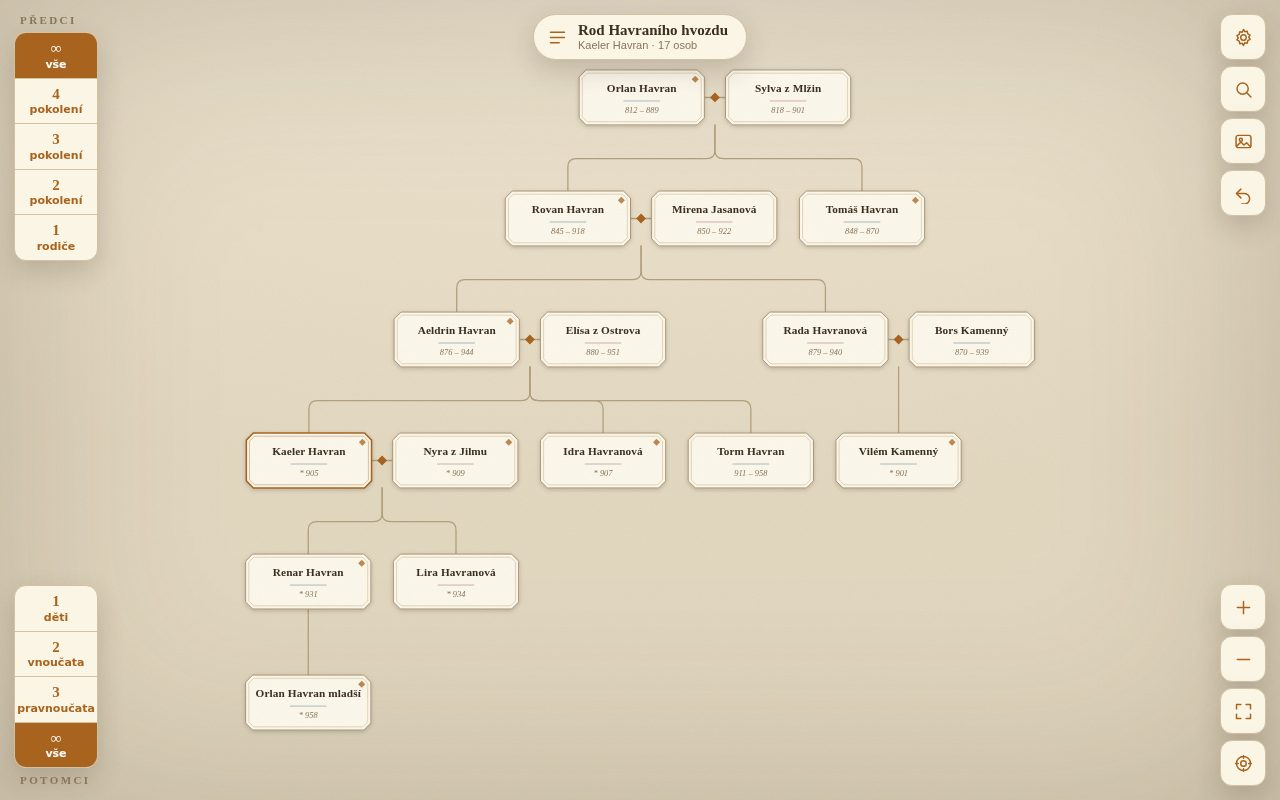
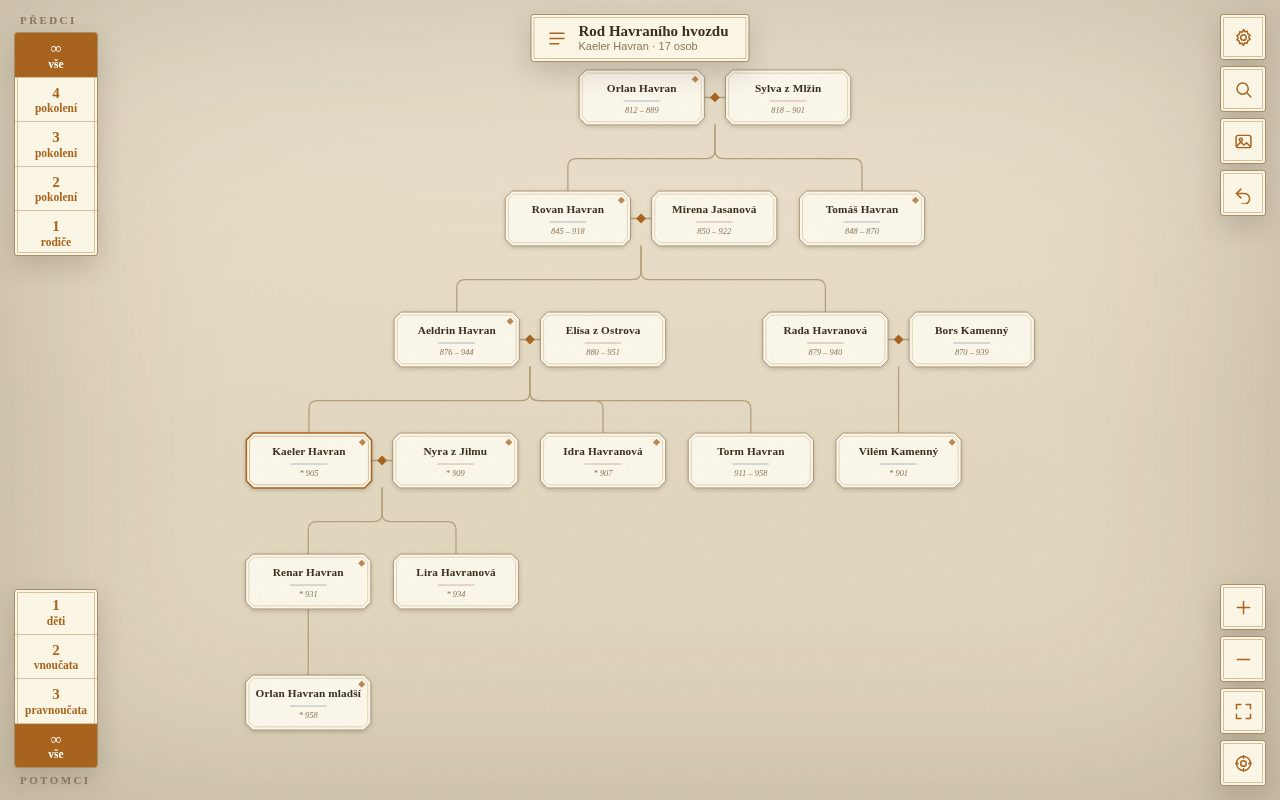
Rozhraní v duchu pergamenu a oprava kresby kruhové nabídky
- panely, tlačítka a dialogy mají dvojitý rámeček a patkové písmo
- ztmavení okolí nabídky řeší kruhová maska místo přechodu
- zakázaná tlačítka nabídky už nepoužívají průhlednost, která
  v prohlížeči zanechávala obdélníkové stopy

diff --git a/css/styles.css b/css/styles.css
@@ -53,7 +53,7 @@ body[data-theme="inkoust"] {
 html, body {
   margin: 0; padding: 0; height: 100%;
   overflow: hidden;
-  font-family: var(--sans);
+  font-family: var(--serif);
   color: var(--ink);
   background: var(--bg);
   -webkit-tap-highlight-color: transparent;
@@ -129,10 +129,11 @@ body[data-theme="inkoust"] #stage { box-shadow: inset 0 0 240px rgba(0, 0, 0, .6
   z-index: 5;
 }
 .chip-btn {
-  display: flex; align-items: center; gap: 10px;
-  background: var(--panel); border: 1px solid var(--line);
-  border-radius: 999px; padding: 7px 18px 7px 13px;
-  box-shadow: var(--shadow); cursor: pointer; color: var(--ink);
+  display: flex; align-items: center; gap: 11px;
+  background: var(--panel); border: 1px solid var(--ink-soft);
+  border-radius: 3px; padding: 8px 20px 8px 15px;
+  box-shadow: var(--shadow), inset 0 0 0 2px var(--panel), inset 0 0 0 3px var(--line);
+  cursor: pointer; color: var(--ink);
   max-width: min(74vw, 460px);
 }
 .chip-btn:hover { border-color: var(--accent); }
@@ -159,15 +160,16 @@ body[data-theme="inkoust"] #stage { box-shadow: inset 0 0 240px rgba(0, 0, 0, .6
 }
 .rail-group {
   display: flex; flex-direction: column;
-  background: var(--panel); border: 1px solid var(--line);
-  border-radius: 12px; overflow: hidden; box-shadow: var(--shadow);
+  background: var(--panel); border: 1px solid var(--ink-soft);
+  border-radius: 3px; overflow: hidden;
+  box-shadow: var(--shadow), inset 0 0 0 2px var(--panel), inset 0 0 0 3px var(--line);
 }
 .rail-btn {
+  font-family: var(--serif);
   display: flex; flex-direction: column; align-items: center; gap: 1px;
   width: 82px; padding: 7px 4px;
   background: transparent; border: 0; border-bottom: 1px solid var(--line);
-  color: var(--accent); font-size: 11px; font-weight: 600; cursor: pointer;
-  font-family: var(--sans);
+  color: var(--accent); font-size: 11.5px; font-weight: 600; cursor: pointer;
 }
 .rail-btn:last-child { border-bottom: 0; }
 .rail-btn:hover { background: var(--accent-soft); }
@@ -177,8 +179,9 @@ body[data-theme="inkoust"] #stage { box-shadow: inset 0 0 240px rgba(0, 0, 0, .6
 
 .tool {
   width: 46px; height: 46px; display: flex; align-items: center; justify-content: center;
-  background: var(--panel); border: 1px solid var(--line); border-radius: 12px;
-  color: var(--accent); cursor: pointer; box-shadow: var(--shadow);
+  background: var(--panel); border: 1px solid var(--ink-soft); border-radius: 3px;
+  color: var(--accent); cursor: pointer;
+  box-shadow: var(--shadow), inset 0 0 0 2px var(--panel), inset 0 0 0 3px var(--line);
 }
 .tool:hover { background: var(--accent-soft); border-color: var(--accent); }
 .tool:active { transform: translateY(1px); }
@@ -187,7 +190,7 @@ body[data-theme="inkoust"] #stage { box-shadow: inset 0 0 240px rgba(0, 0, 0, .6
 .hint {
   position: absolute; left: 50%; bottom: 18px; transform: translateX(-50%);
   background: var(--panel); border: 1px solid var(--line); color: var(--muted);
-  padding: 8px 16px; border-radius: 999px; font-size: 12.5px;
+  padding: 8px 18px; border-radius: 3px; font-size: 12.5px; font-style: italic;
   box-shadow: var(--shadow); pointer-events: none; opacity: 0;
   transition: opacity .3s ease; max-width: 80vw; text-align: center;
 }
@@ -197,6 +200,11 @@ body[data-theme="inkoust"] #stage { box-shadow: inset 0 0 240px rgba(0, 0, 0, .6
 
 .orbit { position: absolute; inset: 0; pointer-events: none; z-index: 8; }
 .orbit.on { pointer-events: auto; }
+.orbit-hole {
+  position: absolute; width: 220px; height: 220px; border-radius: 50%;
+  transform: translate(-50%, -50%); pointer-events: none;
+  box-shadow: 0 0 46px 9999px var(--dim);
+}
 .orbit-btn {
   position: absolute; transform: translate(-50%, -50%);
   width: 58px; height: 58px; border-radius: 50%;
@@ -209,13 +217,18 @@ body[data-theme="inkoust"] #stage { box-shadow: inset 0 0 240px rgba(0, 0, 0, .6
 .orbit-btn:hover { background: var(--accent); color: #fff; }
 .orbit-btn.danger { border-color: var(--danger); color: var(--danger); }
 .orbit-btn.danger:hover { background: var(--danger); color: #fff; }
-.orbit-btn.off { opacity: .35; cursor: default; border-color: var(--line); color: var(--muted); }
-.orbit-btn.off:hover { background: var(--panel); color: var(--muted); }
+.orbit-btn.off {
+  cursor: default; border-color: var(--line); color: var(--muted);
+  background: var(--panel-2); box-shadow: none;
+}
+.orbit-btn.off:hover { background: var(--panel-2); color: var(--muted); }
+.orbit-btn.off .orbit-label { color: var(--muted); border-color: var(--line); }
 .orbit-ico { display: flex; }
 .orbit-label {
-  position: absolute; top: 60px; font-size: 10.5px; font-weight: 700;
+  position: absolute; top: 60px; font-size: 11px; font-weight: 600;
   color: var(--ink); background: var(--panel); border: 1px solid var(--line);
-  padding: 2px 7px; border-radius: 999px; white-space: nowrap;
+  padding: 2px 8px; border-radius: 3px; white-space: nowrap;
+  letter-spacing: .02em;
 }
 .orbit-btn:hover .orbit-label { border-color: var(--accent); color: var(--accent); }
 @keyframes pop { from { opacity: 0; transform: translate(-50%, -50%) scale(.5); } }
@@ -231,8 +244,9 @@ body[data-theme="inkoust"] #stage { box-shadow: inset 0 0 240px rgba(0, 0, 0, .6
 }
 .modal-back.in { opacity: 1; }
 .modal {
-  background: var(--panel); border: 1px solid var(--line); border-radius: 18px;
-  box-shadow: var(--shadow); width: min(460px, 100%);
+  background: var(--panel); border: 1px solid var(--ink-soft); border-radius: 4px;
+  box-shadow: var(--shadow), inset 0 0 0 3px var(--panel), inset 0 0 0 4px var(--line);
+  width: min(460px, 100%);
   max-height: min(88vh, 900px); display: flex; flex-direction: column;
   transform: translateY(8px); transition: transform .18s ease;
 }
@@ -242,7 +256,10 @@ body[data-theme="inkoust"] #stage { box-shadow: inset 0 0 240px rgba(0, 0, 0, .6
   display: flex; align-items: center; justify-content: space-between;
   padding: 16px 16px 10px 22px; border-bottom: 1px solid var(--line);
 }
-.modal-head h2 { margin: 0; font-family: var(--serif); font-size: 19px; font-weight: 600; }
+.modal-head h2 {
+  margin: 0; font-family: var(--serif); font-size: 19px; font-weight: 600;
+  letter-spacing: .04em;
+}
 .modal-body { padding: 16px 22px; overflow: auto; }
 .modal-foot {
   display: flex; justify-content: flex-end; gap: 8px;
@@ -250,9 +267,9 @@ body[data-theme="inkoust"] #stage { box-shadow: inset 0 0 240px rgba(0, 0, 0, .6
 }
 
 .btn {
-  border-radius: 10px; padding: 9px 16px; font-size: 14px; font-weight: 600;
+  border-radius: 4px; padding: 9px 16px; font-size: 14px; font-weight: 600;
   cursor: pointer; border: 1px solid var(--line); background: var(--panel-2);
-  color: var(--ink); font-family: var(--sans);
+  color: var(--ink); font-family: var(--serif);
 }
 .btn:hover { border-color: var(--accent); }
 .btn.primary { background: var(--accent); border-color: var(--accent); color: #fff; }
@@ -275,13 +292,16 @@ body[data-theme="inkoust"] #stage { box-shadow: inset 0 0 240px rgba(0, 0, 0, .6
   letter-spacing: .02em;
 }
 .field { display: flex; flex-direction: column; gap: 5px; margin-bottom: 12px; }
-.field-label { font-size: 11.5px; font-weight: 700; letter-spacing: .06em; text-transform: uppercase; color: var(--muted); }
+.field-label {
+  font-size: 11px; font-weight: 600; letter-spacing: .14em;
+  text-transform: uppercase; color: var(--muted);
+}
 .field-hint { font-size: 11.5px; color: var(--muted); }
 .row2 { display: grid; grid-template-columns: 1fr 1fr; gap: 12px; }
 
 input[type=text], input[type=search], textarea, select, input[type=file] {
-  width: 100%; font-family: var(--sans); font-size: 14px; color: var(--ink);
-  background: var(--bg-2); border: 1px solid var(--line); border-radius: 10px;
+  width: 100%; font-family: var(--serif); font-size: 14.5px; color: var(--ink);
+  background: var(--bg-2); border: 1px solid var(--line); border-radius: 4px;
   padding: 9px 12px; outline: none;
 }
 input:focus, textarea:focus, select:focus { border-color: var(--accent); background: var(--panel); }
@@ -292,7 +312,7 @@ textarea { resize: vertical; min-height: 60px; }
   flex: 1 1 auto; min-width: 72px; padding: 8px 12px; font-size: 13px; font-weight: 600;
   white-space: nowrap;
   border: 1px solid var(--line); background: var(--bg-2); color: var(--muted);
-  border-radius: 9px; cursor: pointer; font-family: var(--sans);
+  border-radius: 4px; cursor: pointer; font-family: var(--serif);
 }
 .seg:hover { border-color: var(--accent); }
 .seg.on { background: var(--accent); border-color: var(--accent); color: #fff; }
@@ -312,7 +332,7 @@ textarea { resize: vertical; min-height: 60px; }
   display: flex; align-items: center; justify-content: space-between; gap: 10px;
   padding: 9px 12px; border-radius: 9px; border: 1px solid transparent;
   background: transparent; cursor: pointer; text-align: left; color: var(--ink);
-  font-family: var(--sans);
+  font-family: var(--serif);
 }
 .pick:hover { background: var(--panel); border-color: var(--line); }
 .pick.on { background: var(--accent-soft); border-color: var(--accent); }
@@ -330,7 +350,7 @@ textarea { resize: vertical; min-height: 60px; }
 .tree-open {
   flex: 1; min-width: 190px; display: flex; flex-direction: column; gap: 2px;
   background: transparent; border: 0; cursor: pointer; text-align: left;
-  padding: 6px 12px; color: var(--ink); font-family: var(--sans);
+  padding: 6px 12px; color: var(--ink); font-family: var(--serif);
 }
 .tree-name { font-family: var(--serif); font-size: 16px; font-weight: 600; }
 .tree-meta { font-size: 12px; color: var(--muted); }
@@ -338,7 +358,7 @@ textarea { resize: vertical; min-height: 60px; }
 .mini {
   font-size: 12px; font-weight: 600; padding: 6px 10px; border-radius: 8px;
   border: 1px solid var(--line); background: var(--panel); color: var(--muted);
-  cursor: pointer; font-family: var(--sans);
+  cursor: pointer; font-family: var(--serif);
 }
 .mini:hover { border-color: var(--accent); color: var(--accent); }
 .mini.danger:hover { border-color: var(--danger); color: var(--danger); }
@@ -361,7 +381,8 @@ textarea { resize: vertical; min-height: 60px; }
 }
 .toast {
   background: var(--ink); color: var(--bg-2); font-size: 13.5px; font-weight: 500;
-  padding: 10px 18px; border-radius: 999px; box-shadow: var(--shadow);
+  padding: 10px 20px; border-radius: 3px;
+  box-shadow: var(--shadow), inset 0 0 0 2px var(--ink), inset 0 0 0 3px var(--accent);
   animation: rise .22s ease backwards; max-width: 80vw; text-align: center;
 }
 .toast-warn { background: var(--danger); color: #fff; }

diff --git a/js/ui.js b/js/ui.js
@@ -790,7 +790,6 @@
       hide: function () {
         this.id = null;
         this.root.className = 'orbit';
-        this.root.style.background = '';
         this.root.textContent = '';
       },
 
@@ -800,9 +799,10 @@
         this.root.textContent = '';
         this.root.className = 'orbit on';
         // ztmavení okolí se „světlem" na vybrané kartě
-        this.root.style.background = 'radial-gradient(circle at ' +
-          Math.round(pos.x) + 'px ' + Math.round(pos.y) + 'px, ' +
-          'transparent 0, transparent 92px, var(--dim) 138px)';
+        this.root.appendChild(h('div', {
+          class: 'orbit-hole',
+          style: 'left:' + Math.round(pos.x) + 'px; top:' + Math.round(pos.y) + 'px'
+        }));
         // klepnutí mimo tlačítka: nabídku zavřeme, a pokud jsme trefili jinou
         // kartu, rovnou ji vybereme
         this.root.onclick = function (ev) {

diff --git a/js/view.js b/js/view.js
@@ -374,7 +374,7 @@
           var t2 = el('text', {
             class: 'n-years', x: 0, y: ry + 17, 'text-anchor': 'middle'
           }, g);
-          t2.textContent = fitText(years, 'italic 12px ' + View.sans, maxW);
+          t2.textContent = fitText(years, 'italic 12px ' + View.serif, maxW);
         }
         if (settings.showNotes && p.note && p.note.trim()) {
           var note = el('g', {
